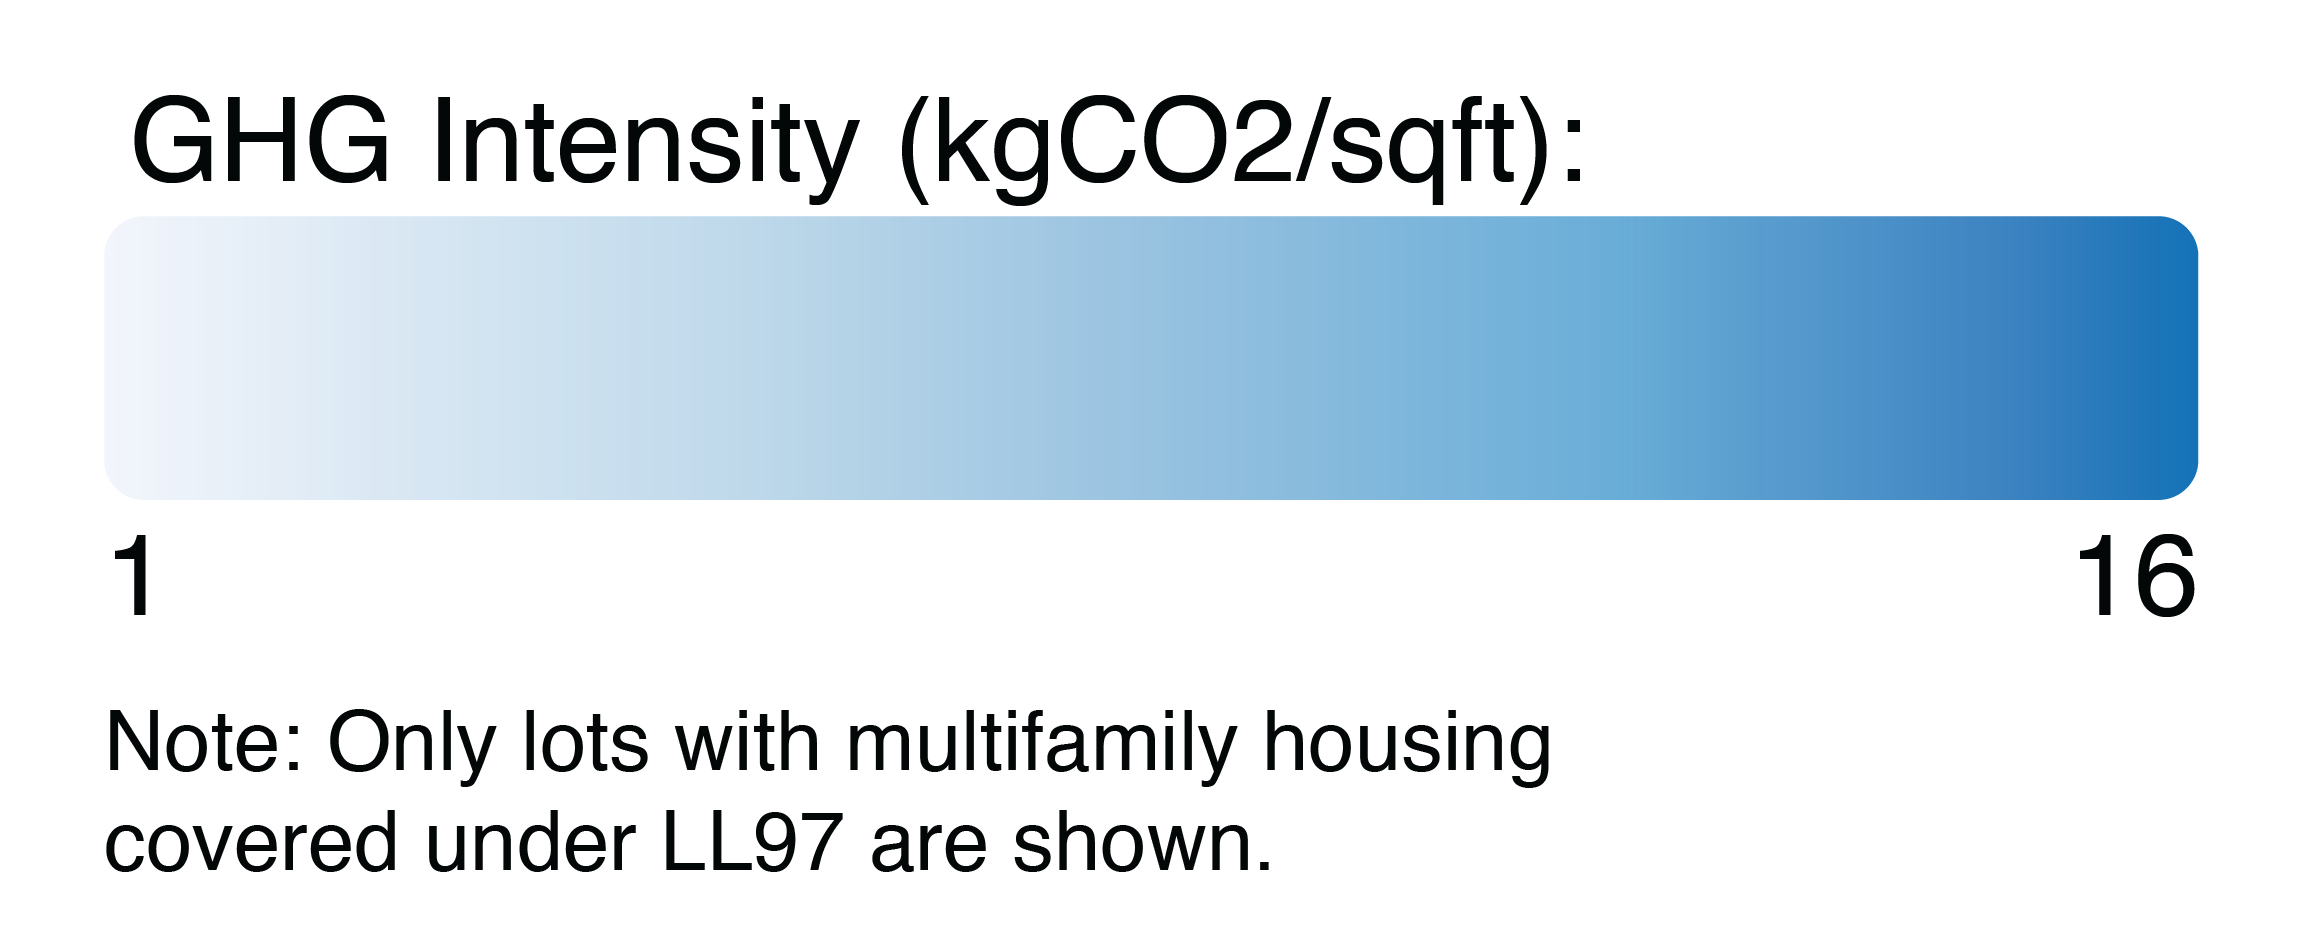
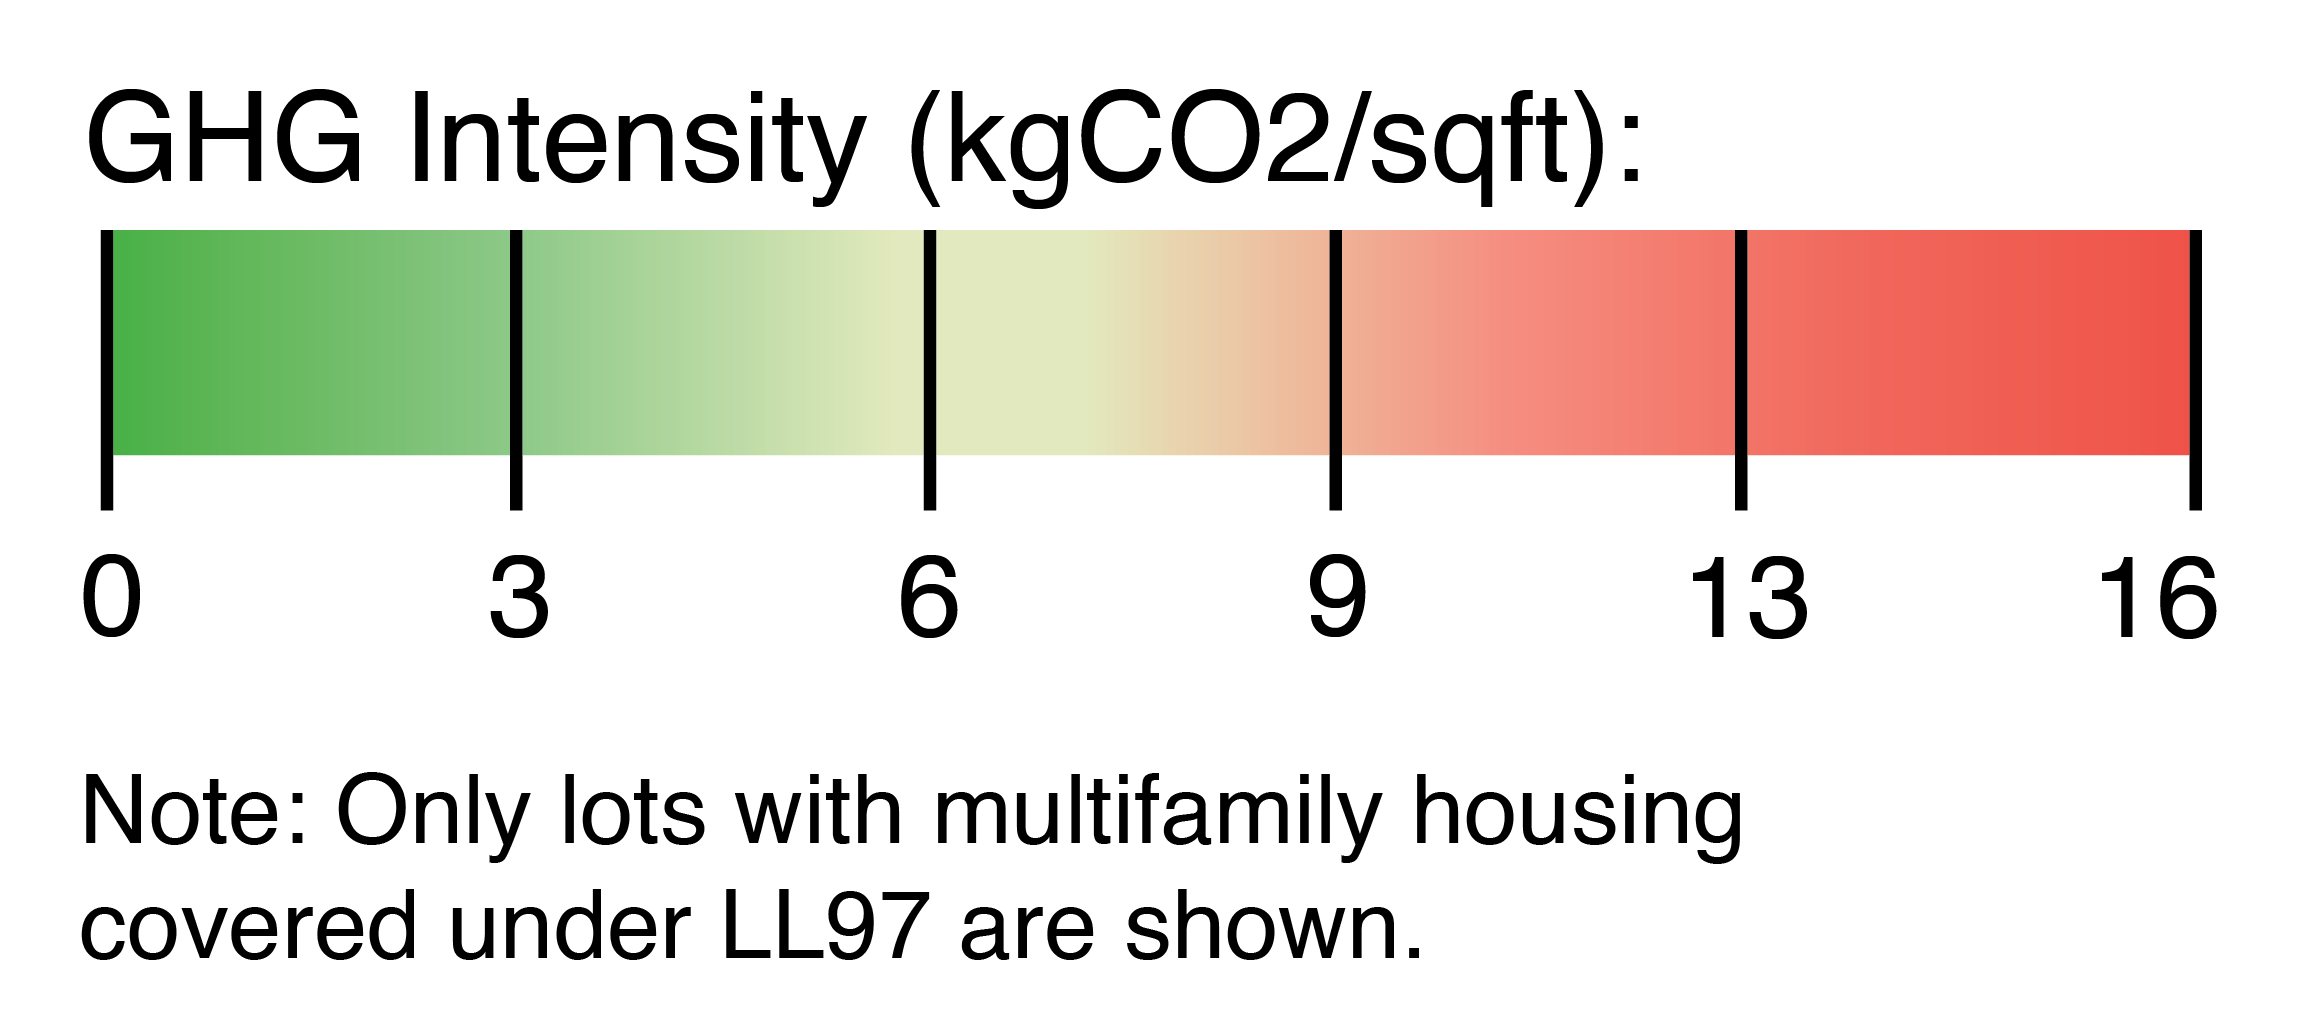
improved inner legend and table

diff --git a/js/scripts.js b/js/scripts.js
@@ -130,7 +130,7 @@ map.on('load', function () {
         type: 'line',
         source: 'map-data-bbl',
         paint: {
-            'line-color': '#F89638',
+            'line-color': 'white',
             'line-width': 2,
             'line-opacity': 0.8,
             'line-blur': 0.3
@@ -157,7 +157,7 @@ map.on('load', function () {
             // Zoom to the clicked tract
             map.flyTo({
                 center: e.lngLat,
-                zoom: 14 // Adjust zoom level as needed
+                zoom: 15 // Adjust zoom level as needed
             });
 
             // Remove the current fill layer
@@ -173,7 +173,9 @@ map.on('load', function () {
                     'line-width': 0.4
 
                 }
-            })
+            },
+            labelLayerId
+        )
 
             // Highlight the clicked tract line
             map.setFilter('highlighted-tract-atrisk', ['==', 'GEOID', e.features[0].properties.GEOID]);
@@ -192,13 +194,17 @@ map.on('load', function () {
                         ['linear'],
                         ['get', "ghg"],
                         0,
-                        '#eff3ff',
-                        5,
-                        '#bdd7e7',
-                        10,
-                        '#6baed6',
+                        '#52BA4F',
+                        3.3,
+                        '#9AD798',
+                        6.6,
+                        '#E7EBC5',
+                        9.9,
+                        '#F6998C',
+                        13.3,
+                        '#F47266',
                         16.3,
-                        '#2171b5'
+                        '#F15B52'
                     ],
                     'fill-opacity': 0.9
                 }
@@ -210,7 +216,7 @@ map.on('load', function () {
             document.getElementById('sidebar').innerHTML = `
             <div class="header">
                 <h1>Lot View</h1>
-                <h2>Lots in High Rent Burden & High Emmission Tracts</h2>
+                <h2>Showing Lots in High Rent Burden & High Emmission Tracts</h2>
             </div>
             <p>Click a lot to display its data report below:</p>
             <p></p>
@@ -260,53 +266,53 @@ map.on('load', function () {
         const tableHTML = `
             <div class="header">
                 <h1>Lot View</h1>
-                <h2>Lots in High Rent Burden & High Emmission Tracts</h2>
+                <h2>Showing Lots in High Rent Burden & High Emmission Tracts</h2>
             </div>
-            <p>Click a lot to display its data report below:</p>
+            <p>Your Selection:</p>
             <p></p>
             <div class="header">
-                <h2>Neighborhood: <b>${bblProperties.NTAName}</b></h2>
-                <h2>Lot Address: <b>${bblProperties.addrss_}</b>, <b>${bblProperties.BoroNam}</b></h2>
+                <p><strong>Neighborhood:</strong> ${bblProperties.NTAName}</p>
+                <p><strong>Lot Address:</strong>  ${bblProperties.addrss_}, ${bblProperties.BoroNam}</p>
             </div>
             <div>
-            This lot's GHG Intensity is <b>${bblProperties.pct_df_}%</b> of the city average for multifamily housing.
+            <p>This lot's GHG Intensity is <b>${bblProperties.pct_df_}%</b> of the city average for multifamily housing.</p>
             </div>
             <p></p>
-            <div style="background-color: #FEEBC8;">
-            <table>
-                <tr>
-                    <td style="outline: 1px solid #F89638;">GHG Intensity</td>
-                    <td style="outline: 1px solid #F89638;"> ${bblProperties.ghg} kgCO2/sqft</td>
-                </tr>
-                <tr>
-                    <td style="outline: 1px solid #F89638;">Energy Star Score</td>
-                    <td style="outline: 1px solid #F89638;"> ${bblProperties.ess} out of 100</td>
-                </tr>
-                <tr>
-                    <td style="outline: 1px solid #F89638;">Residential Units</td>
-                    <td style="outline: 1px solid #F89638;"> ${bblProperties.unts_rs}</td>
-                </tr>
-                <tr>
-                    <td style="outline: 1px solid #F89638;">Year Built</td>
-                    <td style="outline: 1px solid #F89638;"> ${bblProperties.year}</td>
-                </tr>
-                <tr>
-                    <td style="outline: 1px solid #F89638;">Sq. Feet</td>
-                    <td style="outline: 1px solid #F89638;"> ${bblProperties.gfa_chr}</td>
-                </tr>
-                <tr>
-                    <td style="outline: 1px solid #F89638;">Tract-Level Rent-Burdened</td>
-                    <td style="outline: 1px solid #F89638;"> ${bblProperties.rb_c}%</td>
-                </tr>
-                <tr>
-                    <td style="outline: 1px solid #F89638;">Tract-Level Median Rent</td>
-                    <td style="outline: 1px solid #F89638;"> $${bblProperties.mdrntE_}</td>
-                </tr>
-                <tr>
-                    <td style="outline: 1px solid #F89638;">Tract-Level Median Income</td>
-                    <td style="outline: 1px solid #F89638;"> $${bblProperties.mdncmE_}</td>
-                </tr>
-            </table>
+            <div style="background-color: #FEEBC8; border-radius: 10px; padding: 10px;">
+                <table style="border-collapse: collapse;">
+                    <tr>
+                        <td style="width: 200px; border-bottom: 1px solid #F89638; padding: 10px 10px 0;"><b>GHG Intensity:</b></td>
+                        <td style="width: 200px; border-bottom: 1px solid #F89638; padding: 10px 10px 0;"><b>${bblProperties.ghg} kgCO2/sqft</b></td>
+                    </tr>
+                    <tr>
+                        <td style="width: 200px; border-bottom: 1px solid #F89638; padding: 10px 10px 0;">Energy Star Score:</td>
+                        <td style="width: 200px; border-bottom: 1px solid #F89638; padding: 10px 10px 0;">${bblProperties.ess} out of 100</td>
+                    </tr>
+                    <tr>
+                        <td style="width: 200px; border-bottom: 1px solid #F89638; padding: 10px 10px 0;">Residential Units:</td>
+                        <td style="width: 200px; border-bottom: 1px solid #F89638; padding: 10px 10px 0;">${bblProperties.unts_rs}</td>
+                    </tr>
+                    <tr>
+                        <td style="width: 200px; border-bottom: 1px solid #F89638; padding: 10px 10px 0;">Year Built:</td>
+                        <td style="width: 200px; border-bottom: 1px solid #F89638; padding: 10px 10px 0;">${bblProperties.year}</td>
+                    </tr>
+                    <tr>
+                        <td style="width: 200px; border-bottom: 1px solid #F89638; padding: 10px 10px 0;">Sq. Feet:</td>
+                        <td style="width: 200px; border-bottom: 1px solid #F89638; padding: 10px 10px 0;">${bblProperties.gfa_chr}</td>
+                    </tr>
+                    <tr>
+                        <td style="width: 200px; border-bottom: 1px solid #F89638; padding: 10px 10px 0;">Tract-Level Rent-Burdened:</td>
+                        <td style="width: 200px; border-bottom: 1px solid #F89638; padding: 10px 10px 0;">${bblProperties.rb_c}%</td>
+                    </tr>
+                    <tr>
+                        <td style="width: 200px; border-bottom: 1px solid #F89638; padding: 10px 10px 0;">Tract-Level Median Rent:</td>
+                        <td style="width: 200px; border-bottom: 1px solid #F89638; padding: 10px 10px 0;">$${bblProperties.mdrntE_}</td>
+                    </tr>
+                    <tr>
+                        <td style="width: 200px; border-bottom: 1px solid #F89638; padding: 10px 10px 0;">Tract-Level Median Income:</td>
+                        <td style="width: 200px; border-bottom: 1px solid #F89638; padding: 10px 10px 0;">$${bblProperties.mdncmE_}</td>
+                    </tr>
+                </table>
             </div>
             <p></p>
             <button onclick="returnToPreviousMap()">Return to Previous Map</button>

diff --git a/css/styles.css b/css/styles.css
@@ -54,7 +54,7 @@ body {
     top: 10px;
     left: 20px;
     z-index: 1;
-    width: 300px;
+    width: 390px;
     background: #fff;
     padding: 15px;
     border-radius: 10px;
@@ -77,12 +77,13 @@ body {
 
 
 #sidebar h1 {
-    font-size: 20px;
+    font-size: 22px;
     margin-bottom: 5px; /* Add some bottom margin */
 }
 
 #sidebar h2 {
     font-size:16px;
+    font-weight: 550;
     margin-top: 0; /* Remove top margin */
 }
 
@@ -112,6 +113,17 @@ body {
 
 .legend-container {
     background-color: #fff;
+    position: fixed;
+    bottom: 0;
+    right: 0;
+    margin: 20px;
+    border-radius: 10px;
+    padding: 8px;
+    box-shadow: 0 0 10px rgba(0, 0, 0, 0.1);
+}
+
+.legend-container-inner {
+    background-color: #666666;
     position: fixed;
     bottom: 0;
     right: 0;
